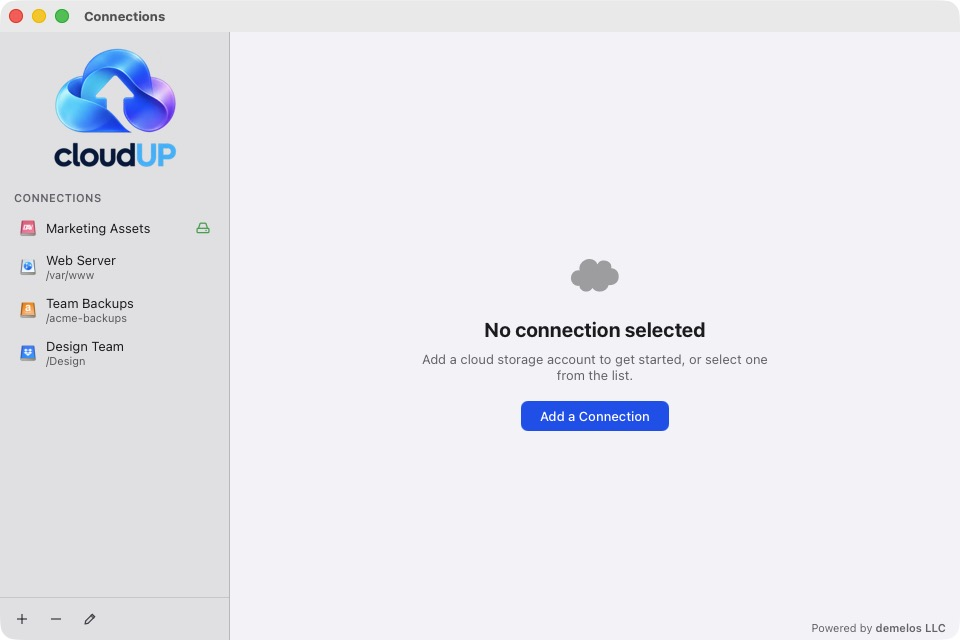
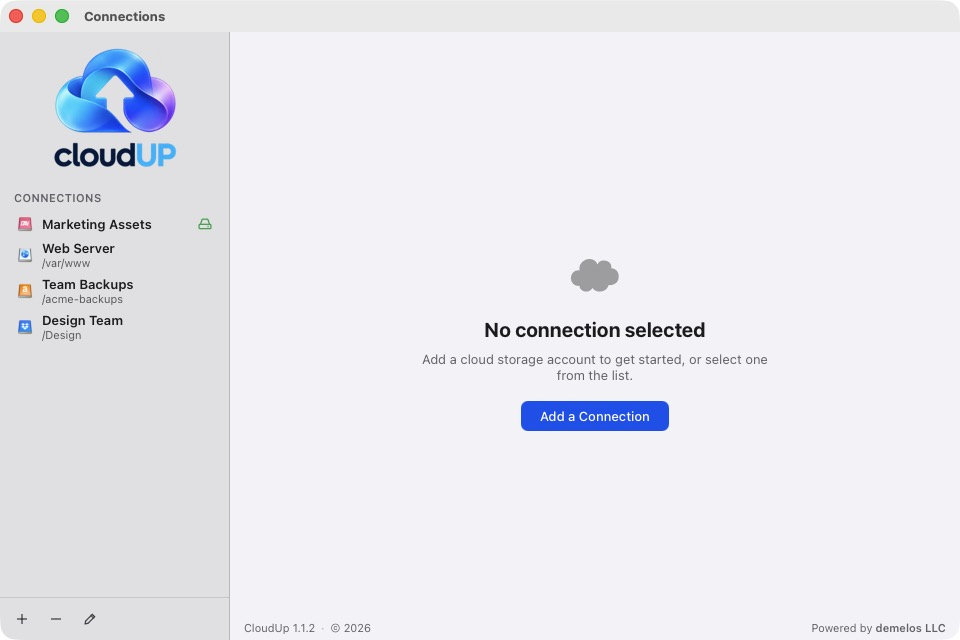
Screenshots: new footer, compact sidebar, Finder 'CloudUp - <name>' label, About 1.1.2

diff --git a/website/index.html b/website/index.html
@@ -11,7 +11,7 @@
 <meta property="og:description" content="One app to open, edit and save files across S3, B2, WebDAV, Google Drive, OneDrive, Box, Dropbox, MEGA and more — right in Finder's sidebar.">
 <meta property="og:type" content="website">
 <meta property="og:url" content="https://www.demelos.com/tools/cloudup/">
-<meta property="og:image" content="https://www.demelos.com/tools/cloudup/shots/03-browser.jpg">
+<meta property="og:image" content="https://www.demelos.com/tools/cloudup/shots/03-browser.jpg?v=112">
 <style>
 :root { --bg:#0b1020; --panel:#131b30; --text:#e8ecf7; --muted:#9aa5c4; --accent:#4f8cff; --accent2:#7bd0ff; --border:#26314f; }
 * { box-sizing:border-box; margin:0; padding:0; }
@@ -96,14 +96,14 @@ footer { padding:40px 0 60px; text-align:center; color:var(--muted); font-size:.
 
 <section class="wrap">
   <h2>See it in action</h2>
-  <div class="shot"><img src="shots/03-browser.jpg" alt="CloudUp file browser showing a cloud folder with dates, sizes and kinds"><div class="cap">Browse any cloud like Finder — dates, sizes, kinds, drag and drop.</div></div>
+  <div class="shot"><img src="shots/03-browser.jpg?v=112" alt="CloudUp file browser showing a cloud folder with dates, sizes and kinds"><div class="cap">Browse any cloud like Finder — dates, sizes, kinds, drag and drop.</div></div>
   <div class="shots">
-    <div class="shot"><img src="shots/06-finder-location.jpg" alt="A CloudUp connection in Finder's sidebar under Locations"><div class="cap">Mounted connections live in Finder's sidebar.</div></div>
-    <div class="shot"><img src="shots/02-add-connection.jpg" alt="Choosing a cloud provider in CloudUp"><div class="cap">Twelve providers, one connection manager.</div></div>
-    <div class="shot"><img src="shots/05-edit-connection.jpg" alt="Editing an SFTP connection"><div class="cap">Edit any connection; mount it at login.</div></div>
-    <div class="shot"><img src="shots/04-preview.jpg" alt="Previewing a text file"><div class="cap">Preview and edit files without downloading.</div></div>
-    <div class="shot"><img src="shots/01-connections.jpg" alt="CloudUp connection list"><div class="cap">All your clouds in one sidebar.</div></div>
-    <div class="shot"><img src="shots/07-about.jpg" alt="About CloudUp"><div class="cap">Powered by demelos LLC.</div></div>
+    <div class="shot"><img src="shots/06-finder-location.jpg?v=112" alt="A CloudUp connection in Finder's sidebar under Locations"><div class="cap">Mounted connections live in Finder's sidebar.</div></div>
+    <div class="shot"><img src="shots/02-add-connection.jpg?v=112" alt="Choosing a cloud provider in CloudUp"><div class="cap">Twelve providers, one connection manager.</div></div>
+    <div class="shot"><img src="shots/05-edit-connection.jpg?v=112" alt="Editing an SFTP connection"><div class="cap">Edit any connection; mount it at login.</div></div>
+    <div class="shot"><img src="shots/04-preview.jpg?v=112" alt="Previewing a text file"><div class="cap">Preview and edit files without downloading.</div></div>
+    <div class="shot"><img src="shots/01-connections.jpg?v=112" alt="CloudUp connection list"><div class="cap">All your clouds in one sidebar.</div></div>
+    <div class="shot"><img src="shots/07-about.jpg?v=112" alt="About CloudUp"><div class="cap">Powered by demelos LLC.</div></div>
   </div>
 </section>
 
